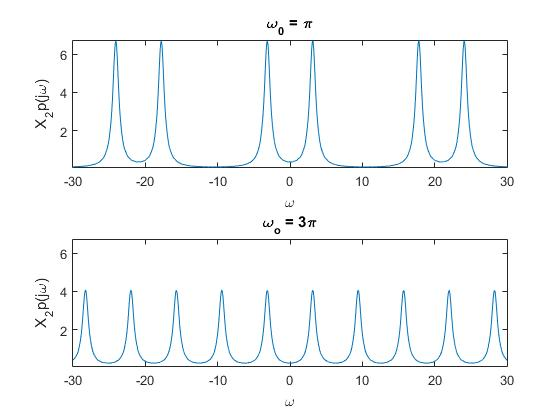
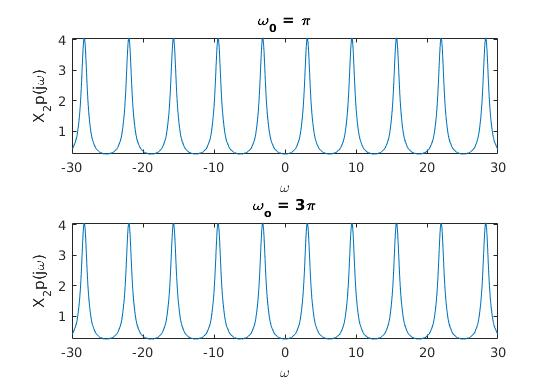
fix ex_3_2_c

Changed region(s): [[0.0618, 0.0308, 0.9273, 0.4615], [0.0618, 0.4923, 0.9273, 0.9231]]

diff --git a/Lab4/ex_3_2_c.m b/Lab4/ex_3_2_c.m
@@ -1,5 +1,5 @@
 addpath('resources');
-[Xp21,w] = espectro_sinal_amostrado(0.3,10,30,pi);
+[Xp21,w] = espectro_sinal_amostrado(0.5,10,30,pi);
 [Xp22,w] = espectro_sinal_amostrado(0.5,10,30,3*pi);
 RXp21 = real(Xp21);
 RXp22 = real(Xp22);
